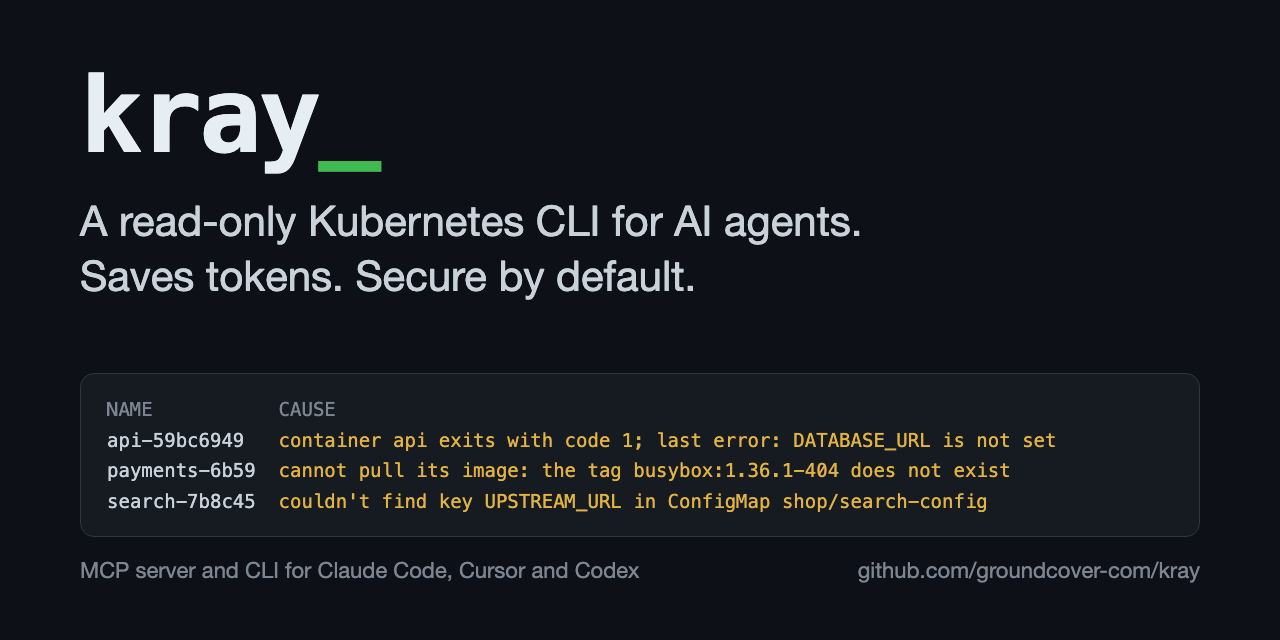
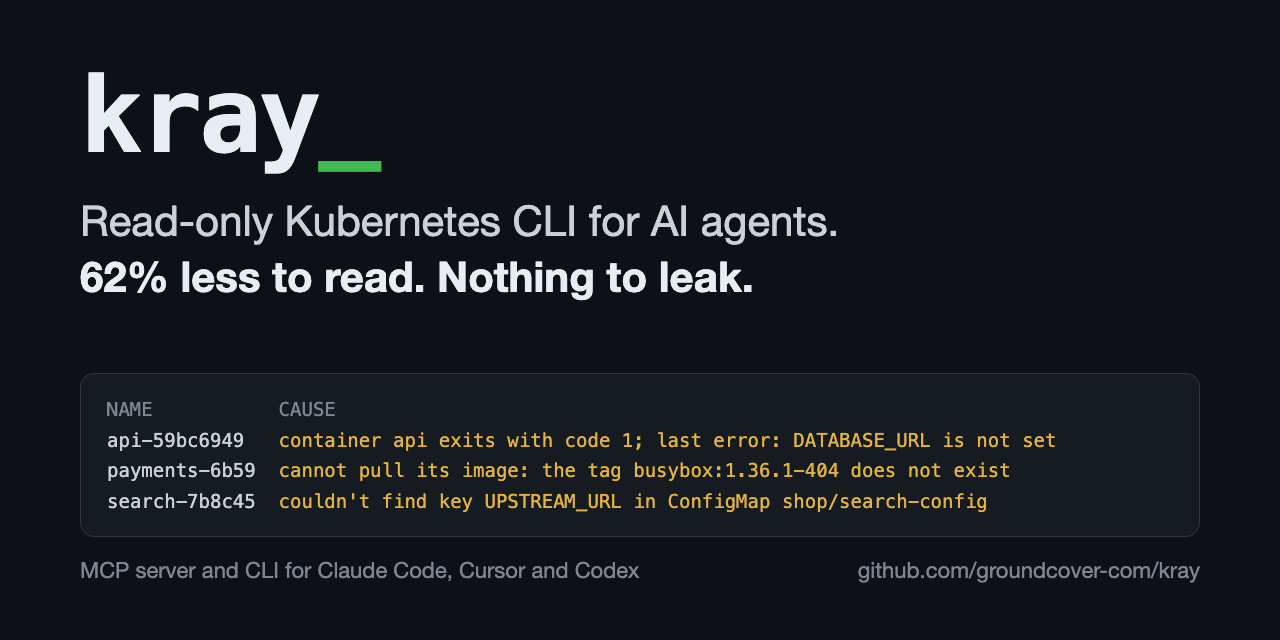
Use the tagline: 62% less to read, nothing to leak

Changed region(s): [[0.0625, 0.3125, 0.6875, 0.4688]]

diff --git a/README.md b/README.md
@@ -1,6 +1,6 @@
 <h1 align="center">kray</h1>
 
-<p align="center"><strong>A read-only Kubernetes CLI for AI agents. Saves tokens. Secure by default.</strong></p>
+<p align="center"><strong>Read-only Kubernetes CLI for AI agents. 62% less to read. Nothing to leak.</strong></p>
 
 <p align="center">An open source project by <a href="https://www.groundcover.com/?utm_source=github&utm_medium=readme&utm_campaign=kray&utm_content=header">groundcover</a></p>
 
